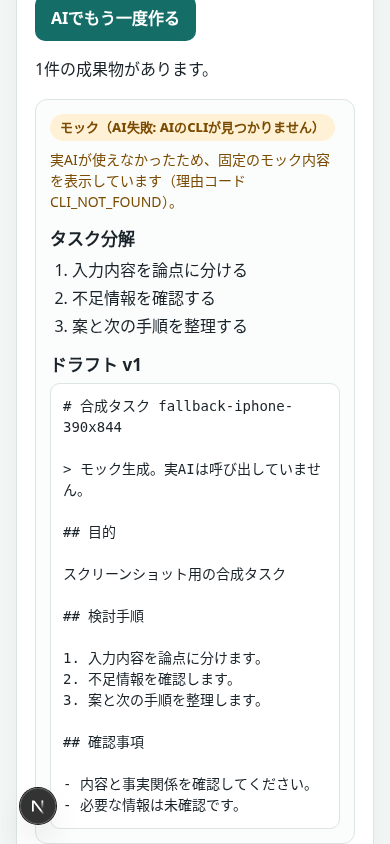
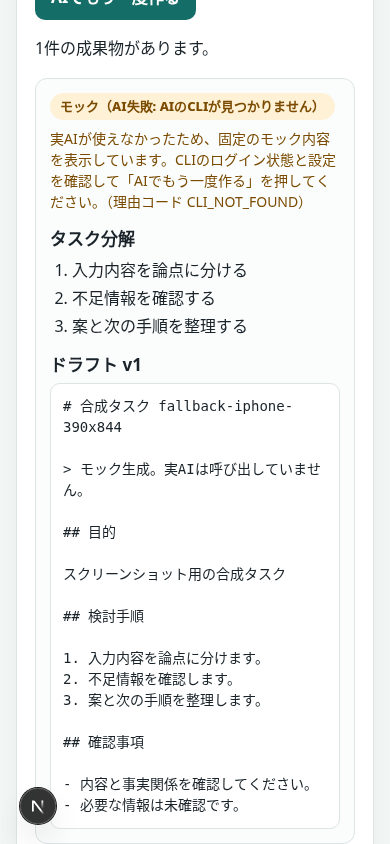
レビュー指摘を反映：出力上限・タイムアウト時の後始末・ジョブ別の生成モード・起動手順
- codex の最終出力ファイルにも256KB上限を適用
- タイムアウト時はプロセスグループごと停止し、終了を待ってから失敗を返す
- 成果物にジョブIDを保存し、ジョブAPIはそのジョブの生成モードを返す
- 失敗時の案内文を日本語の対処に変更、再依頼中は古い結果を隠す
- README と .env.example に AI_MODE などの設定を追記

Changed region(s): [[0.0923, 0.0, 0.8615, 0.2464]]

diff --git a/src/adapters/cli-ai.ts b/src/adapters/cli-ai.ts
@@ -1,5 +1,5 @@
 import { spawn } from 'node:child_process';
-import { mkdtempSync, readFileSync, rmSync } from 'node:fs';
+import { mkdtempSync, readFileSync, rmSync, statSync } from 'node:fs';
 import { tmpdir } from 'node:os';
 import { join } from 'node:path';
 import { z } from 'zod';
@@ -37,25 +37,36 @@ export type RunCliOptions = { command: string; args: string[]; timeoutMs: number
 /** shell を通さずに CLI を起動し、stdin にプロンプトを渡して stdout を返す。 */
 export function runCli(prompt: string, options: RunCliOptions): Promise<string> {
   return new Promise((resolve, reject) => {
+    // detached で別プロセスグループにし、タイムアウト時は子孫ごと止める。
     const child = spawn(options.command, options.args, {
-      cwd: options.cwd, env: buildChildEnv(options.env ?? process.env) as NodeJS.ProcessEnv, stdio: ['pipe', 'pipe', 'ignore'], shell: false,
+      cwd: options.cwd, env: buildChildEnv(options.env ?? process.env) as NodeJS.ProcessEnv, stdio: ['pipe', 'pipe', 'ignore'], shell: false, detached: true,
     });
     let output = '';
+    let failure: CliAiError | null = null;
     let settled = false;
-    const done = (error: CliAiError | null) => {
+    const settle = (error: CliAiError | null) => {
       if (settled) return;
       settled = true;
       clearTimeout(timer);
-      if (error) { child.kill('SIGKILL'); reject(error); } else resolve(output);
+      clearTimeout(forceTimer);
+      if (error) reject(error); else resolve(output);
     };
-    const timer = setTimeout(() => done(new CliAiError('CLI_TIMEOUT')), options.timeoutMs);
+    const stop = (error: CliAiError) => {
+      if (failure || settled) return;
+      failure = error;
+      try { if (child.pid) process.kill(-child.pid, 'SIGKILL'); } catch { child.kill('SIGKILL'); }
+      // 通常は close を待つ。万一 close が来なくても2秒で打ち切る。
+      forceTimer = setTimeout(() => settle(error), 2_000);
+    };
+    let forceTimer: NodeJS.Timeout | undefined;
+    const timer = setTimeout(() => stop(new CliAiError('CLI_TIMEOUT')), options.timeoutMs);
     child.stdout.setEncoding('utf8');
     child.stdout.on('data', (chunk: string) => {
       output += chunk;
-      if (Buffer.byteLength(output) > MAX_OUTPUT_BYTES) done(new CliAiError('INVALID_OUTPUT'));
+      if (Buffer.byteLength(output) > MAX_OUTPUT_BYTES) stop(new CliAiError('INVALID_OUTPUT'));
     });
-    child.on('error', (error: NodeJS.ErrnoException) => done(new CliAiError(error.code === 'ENOENT' || error.code === 'EACCES' ? 'CLI_NOT_FOUND' : 'CLI_EXIT')));
-    child.on('close', (code) => done(code === 0 ? null : new CliAiError('CLI_EXIT')));
+    child.on('error', (error: NodeJS.ErrnoException) => settle(failure ?? new CliAiError(error.code === 'ENOENT' || error.code === 'EACCES' ? 'CLI_NOT_FOUND' : 'CLI_EXIT')));
+    child.on('close', (code) => settle(failure ?? (code === 0 ? null : new CliAiError('CLI_EXIT'))));
     child.stdin.on('error', () => undefined);
     child.stdin.end(prompt);
   });
@@ -78,7 +89,12 @@ export function createCliRunnerFromEnv(env: Env = process.env): CliRunner {
       if (model) args.push('-m', model);
       args.push('-');
       await runCli(prompt, { command: env.AI_CLI_PATH || 'codex', args, timeoutMs, env, cwd: workdir });
-      return readFileSync(outputFile, 'utf8');
+      try {
+        if (statSync(outputFile).size > MAX_OUTPUT_BYTES) throw new CliAiError('INVALID_OUTPUT');
+        return readFileSync(outputFile, 'utf8');
+      } catch (error) {
+        throw error instanceof CliAiError ? error : new CliAiError('INVALID_OUTPUT');
+      }
     } finally {
       rmSync(workdir, { recursive: true, force: true });
     }
@@ -113,6 +129,7 @@ export function buildPrompt(task: Task): string {
 }
 
 export function parseAiOutput(raw: string): z.infer<typeof aiOutputSchema> {
+  if (Buffer.byteLength(raw) > MAX_OUTPUT_BYTES) throw new CliAiError('INVALID_OUTPUT');
   const start = raw.indexOf('{');
   const end = raw.lastIndexOf('}');
   if (start < 0 || end <= start) throw new CliAiError('INVALID_OUTPUT');

diff --git a/src/adapters/preparation-store.ts b/src/adapters/preparation-store.ts
@@ -23,6 +23,7 @@ export type StoredArtifact = {
   path: string;
   mode: ArtifactMode;
   fallbackReason: string | null;
+  jobId: string | null;
   saveStatus: 'MOCK_SAVED';
   createdAt: string;
   plan: WorkPlan;
@@ -62,6 +63,7 @@ export class PreparationStore {
     this.ensureColumn('artifacts', 'approved_version_id', 'TEXT');
     this.ensureColumn('artifact_versions', 'parent_version_id', 'TEXT');
     this.ensureColumn('artifact_versions', 'fallback_reason', 'TEXT');
+    this.ensureColumn('artifact_versions', 'job_id', 'TEXT');
   }
 
   enqueue(task: Task, operationKey: string = randomUUID()): PreparationJob {
@@ -107,13 +109,13 @@ export class PreparationStore {
     const rows = z.array(z.object({
       id: z.string().uuid(), artifact_id: z.string().uuid(), version_number: z.number(), parent_version_id: z.string().uuid().nullable(), content: z.string(),
       file_name: z.string(), change_summary: z.string(), created_at: z.string(), mode: artifactModeSchema,
-      fallback_reason: z.string().nullable(), save_status: z.literal('MOCK_SAVED'), plan_json: z.string(),
+      fallback_reason: z.string().nullable(), job_id: z.string().nullable(), save_status: z.literal('MOCK_SAVED'), plan_json: z.string(),
     })).parse(this.db.prepare(`SELECT av.* FROM artifact_versions av
       JOIN artifacts a ON a.id = av.artifact_id WHERE a.task_id = ? ORDER BY av.version_number`).all(taskId));
     return rows.map((row) => ({
       id: row.artifact_id, versionId: row.id, parentVersionId: row.parent_version_id,
       taskId, version: row.version_number, path: join(this.artifactDirectory, row.file_name),
-      mode: row.mode, fallbackReason: row.fallback_reason, saveStatus: row.save_status, createdAt: row.created_at,
+      mode: row.mode, fallbackReason: row.fallback_reason, jobId: row.job_id, saveStatus: row.save_status, createdAt: row.created_at,
       plan: workPlanSchema.parse(JSON.parse(row.plan_json)), content: row.content, changeSummary: row.change_summary,
     }));
   }
@@ -165,9 +167,9 @@ export class PreparationStore {
     const transaction = this.db.transaction(() => {
       if (artifactRecord) this.db.prepare('UPDATE artifacts SET current_version = ? WHERE id = ?').run(version, artifactId);
       else this.db.prepare('INSERT INTO artifacts(id, task_id, current_version, created_at) VALUES (?, ?, ?, ?)').run(artifactId, task.id, version, now);
-      this.db.prepare('INSERT INTO artifact_versions(id, artifact_id, version_number, parent_version_id, content, file_name, change_summary, created_at, mode, fallback_reason, save_status, plan_json) VALUES (?, ?, ?, NULL, ?, ?, ?, ?, ?, ?, ?, ?)')
+      this.db.prepare('INSERT INTO artifact_versions(id, artifact_id, version_number, parent_version_id, content, file_name, change_summary, created_at, mode, fallback_reason, job_id, save_status, plan_json) VALUES (?, ?, ?, NULL, ?, ?, ?, ?, ?, ?, ?, ?, ?)')
         .run(randomUUID(), artifactId, version, generation.markdown, fileName, generation.changeSummary, now,
-          generation.meta?.mode ?? 'mock', generation.meta?.fallbackReason ?? null, 'MOCK_SAVED', JSON.stringify(generation.plan));
+          generation.meta?.mode ?? 'mock', generation.meta?.fallbackReason ?? null, job.id, 'MOCK_SAVED', JSON.stringify(generation.plan));
       this.db.prepare('INSERT OR REPLACE INTO work_plans(task_id, revision, plan_json, created_at) VALUES (?, ?, ?, ?)')
         .run(task.id, task.revision + 1, JSON.stringify(generation.plan), now);
       this.db.prepare("UPDATE preparation_jobs SET status = 'SUCCEEDED', updated_at = ?, error_code = NULL WHERE id = ?").run(now, job.id);

diff --git a/tests/cli-ai.test.ts b/tests/cli-ai.test.ts
@@ -2,7 +2,7 @@ import { mkdtempSync, rmSync } from 'node:fs';
 import { tmpdir } from 'node:os';
 import { join } from 'node:path';
 import { afterEach, beforeEach, describe, expect, it } from 'vitest';
-import { buildChildEnv, buildPrompt, CliAiAdapter, CliAiError, FallbackAiAdapter, runCli, type CliRunner } from '../src/adapters/cli-ai';
+import { buildChildEnv, buildPrompt, CliAiAdapter, CliAiError, FallbackAiAdapter, parseAiOutput, runCli, type CliRunner } from '../src/adapters/cli-ai';
 import { MockAiAdapter } from '../src/adapters/mock-ai';
 import { PreparationStore } from '../src/adapters/preparation-store';
 import { TaskStore } from '../src/adapters/task-store';
@@ -36,7 +36,7 @@ describe('real AI via subscription CLI', () => {
     const job = await preparations.runNext(tasks, new FallbackAiAdapter(new CliAiAdapter(runner), new MockAiAdapter()));
     expect(job?.status).toBe('SUCCEEDED');
     const [artifact] = preparations.listArtifacts(task.id);
-    expect(artifact).toMatchObject({ mode: 'ai', fallbackReason: null });
+    expect(artifact).toMatchObject({ mode: 'ai', fallbackReason: null, jobId: job?.id });
     expect(artifact?.plan.steps).toEqual(JSON.parse(validOutput).steps);
     expect(artifact?.content).toContain('問い合わせ対応の時間を減らす');
     expect(modeLabel('ai', null)).toBe('AI生成');
@@ -87,5 +87,14 @@ describe('real AI via subscription CLI', () => {
     expect(Object.keys(env).sort()).toEqual(['HOME', 'PATH']);
     const echoed = await runCli('', { command: process.execPath, args: ['-e', 'process.stdout.write(String(Object.keys(process.env).includes("GH_TOKEN")))'], timeoutMs: 5_000, env: { PATH: process.env.PATH, GH_TOKEN: 'x' } });
     expect(echoed).toBe('false');
+  });
+});
+
+describe('CLI runner limits', () => {
+  it('rejects oversized output and kills the whole process group on timeout', async () => {
+    expect(() => parseAiOutput(`{"steps":["a","b"],"draftMarkdown":"${'x'.repeat(300_000)}"}`)).toThrow(CliAiError);
+    const started = Date.now();
+    await expect(runCli('', { command: '/bin/sh', args: ['-c', 'sleep 30 & sleep 30'], timeoutMs: 300 })).rejects.toMatchObject({ code: 'CLI_TIMEOUT' });
+    expect(Date.now() - started).toBeLessThan(2_500);
   });
 });

diff --git a/src/app/tasks/[id]/page.tsx b/src/app/tasks/[id]/page.tsx
@@ -115,6 +115,7 @@ export default function TaskDetail({ params }: { params: Promise<{ id: string }>
       const queued = queuedJobSchema.parse(result);
       setJobMessage(`準備ジョブ ${queued.job.status}・${queued.label}。ワーカーが処理します。`);
       setTask({ ...task, aiStatus: 'QUEUED' });
+      setLatest(null);
       void waitForGeneration(task.id);
     } catch (cause) {
       setJobMessage(cause instanceof Error ? cause.message : '準備ジョブを開始できませんでした。');
@@ -150,7 +151,7 @@ export default function TaskDetail({ params }: { params: Promise<{ id: string }>
 function AiResult({ artifact }: { artifact: LatestArtifact }) {
   const fallback = artifact.mode !== 'ai';
   return <section className="ai-result" aria-label="AIの準備結果"><p className={fallback ? 'mode-badge mode-fallback' : 'mode-badge mode-ai'} data-mode={artifact.mode}>{artifact.modeLabel}</p>
-    {fallback && artifact.mode === 'mock_fallback' ? <p className="fallback-note">実AIが使えなかったため、固定のモック内容を表示しています（理由コード {artifact.fallbackReason ?? '不明'}）。</p> : null}
+    {fallback && artifact.mode === 'mock_fallback' ? <p className="fallback-note">実AIが使えなかったため、固定のモック内容を表示しています。CLIのログイン状態と設定を確認して「AIでもう一度作る」を押してください。<span className="reason-code">（理由コード {artifact.fallbackReason ?? '不明'}）</span></p> : null}
     <h2>タスク分解</h2><ol className="ai-steps">{artifact.plan.steps.map((step, index) => <li key={`${index}-${step}`}>{step}</li>)}</ol>
     <h2>ドラフト v{artifact.version}</h2><pre className="ai-draft">{artifact.content}</pre></section>;
 }

diff --git a/src/app/api/jobs/[id]/route.ts b/src/app/api/jobs/[id]/route.ts
@@ -6,7 +6,7 @@ export function GET(_request: Request, context: { params: Promise<{ id: string }
   return context.params.then(({ id }) => {
     const job = preparationStore.getJob(id);
     if (!job) return NextResponse.json({ error: 'ジョブが見つかりません。' }, { status: 404 });
-    const artifact = job.status === 'SUCCEEDED' ? preparationStore.listArtifacts(job.taskId).at(-1) : undefined;
+    const artifact = job.status === 'SUCCEEDED' ? preparationStore.listArtifacts(job.taskId).find((item) => item.jobId === job.id) : undefined;
     return NextResponse.json({
       job,
       artifactMode: artifact?.mode ?? null,

diff --git a/README.md b/README.md
@@ -13,6 +13,25 @@ npm run dev
 
 ブラウザーで `http://localhost:3000` を開きます。秘密値は `.env.local` に置き、ソースやログへ書かないでください。別ターミナルでworkerを動かす場合は `timeout 1h npm run worker` を実行します。
 
+## 実AI（サブスクCLI）でタスク分解とドラフトを作る
+
+既定はモックです。`AI_MODE=cli` を **Web とワーカーの両方** に設定すると、ワーカーがローカルにログイン済みの `claude`（既定）または `codex` を呼び、タスク分解とドラフトを作ります。APIキーは使いません。
+
+| 環境変数 | 既定 | 説明 |
+| --- | --- | --- |
+| `AI_MODE` | 未設定（モック） | `cli` で実AIを使う |
+| `AI_CLI` | `claude` | `claude` または `codex` |
+| `AI_CLI_MODEL` | `sonnet`（claude） | モデル名。codex は未指定ならCLIの既定 |
+| `AI_CLI_PATH` | `claude` / `codex` | 実行ファイルのパス |
+| `AI_TIMEOUT_MS` | `120000` | タイムアウト（ミリ秒） |
+
+```sh
+AI_MODE=cli timeout 8h npm run start -- --port 3310
+AI_MODE=cli AI_CLI=claude timeout 8h npm run worker
+```
+
+CLIが見つからない・エラー終了・タイムアウト・出力不正のときはモックに戻し、画面に「モック（AI失敗: 理由）」と表示します。ワーカーが動いていないと「AIが作成中…」のままになります。修正指示による改訂は今回もモックです。
+
 ## テストと確認
 
 ```sh
